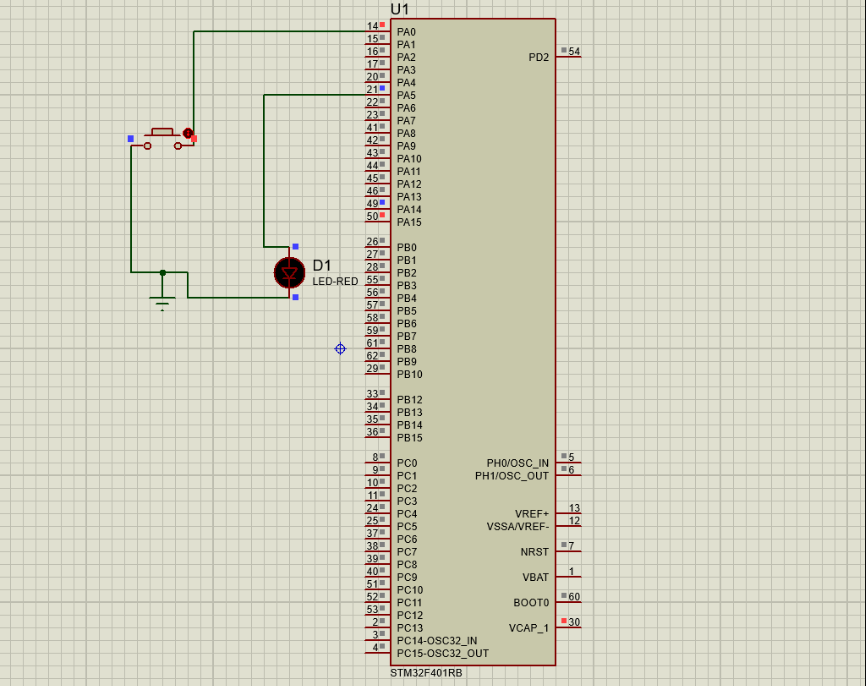
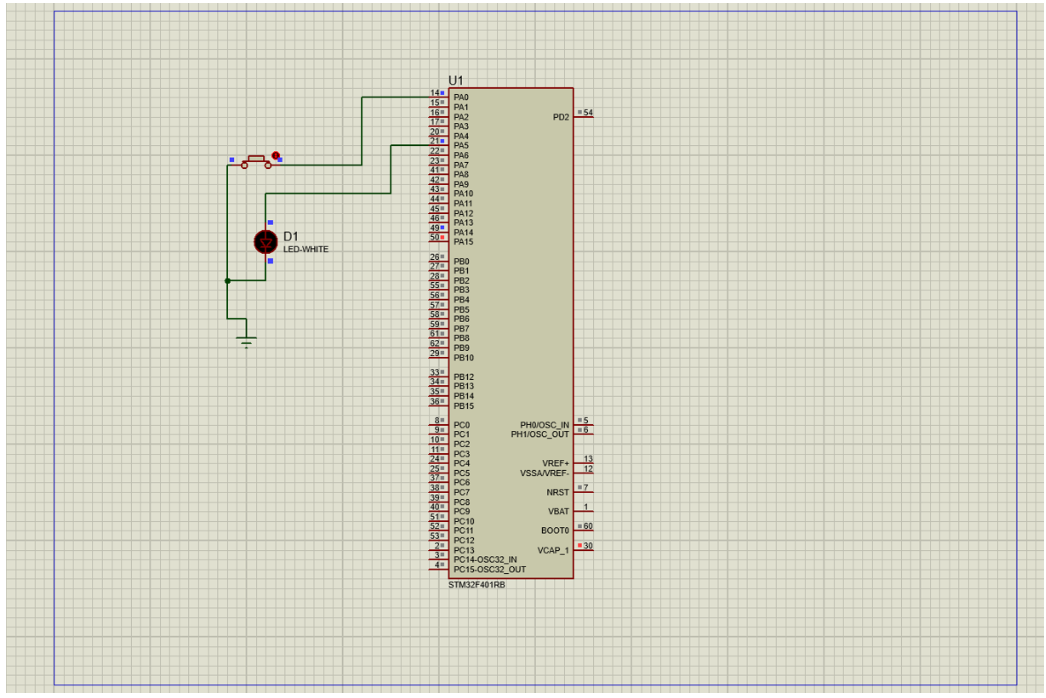
added

diff --git a/README.md b/README.md
@@ -78,36 +78,31 @@ REG NO: 212222240101
 
 ```
 #include "main.h"
-#include "stdbool.h"
-bool PUSHBUTTON;
-void SystemClock_Config(void);
-static void MX_GPIO_Init(void);
-int main(void)
-{
-  
-  HAL_Init();
-  SystemClock_Config();
-  MX_GPIO_Init();
- 
-  while (1)
+#include <stdbool.h>
+bool button;
+void blink_led();
+
+ while (1)
   {
-	  PUSHBUTTON=HAL_GPIO_ReadPin(GPIOC,GPIO_PIN_13);
-	  	 	 if(PUSHBUTTON==0)
-	  	 	 {
-	  	 		 HAL_GPIO_WritePin(GPIOA,GPIO_PIN_5,GPIO_PIN_SET);
-	  	 		 HAL_Delay(2000);
-	  	 		 HAL_GPIO_WritePin(GPIOA,GPIO_PIN_5,GPIO_PIN_RESET);
-	  	 		 HAL_Delay(2000);
-	  	 	 }
-	  	 	 else
-	  	 	 {
-	  	 		 HAL_GPIO_WritePin(GPIOA,GPIO_PIN_5,GPIO_PIN_RESET);
-	  	 		 HAL_Delay(2000);
-	  
-               	 	 }
-    
+	  blink_led();
   }
 
+void blink_led()
+{
+	button=HAL_GPIO_ReadPin(GPIOA,GPIO_PIN_0);
+			if(button==0)
+			{
+				HAL_GPIO_WritePin(GPIOA, GPIO_PIN_5, GPIO_PIN_SET);
+				HAL_Delay(1000);
+				HAL_GPIO_WritePin(GPIOA, GPIO_PIN_5, GPIO_PIN_RESET);
+				HAL_Delay(1000);
+			}
+			else
+			{
+				HAL_GPIO_WritePin(GPIOA, GPIO_PIN_5, GPIO_PIN_RESET);
+				HAL_Delay(1000);
+
+			}
 }
 ```
 
